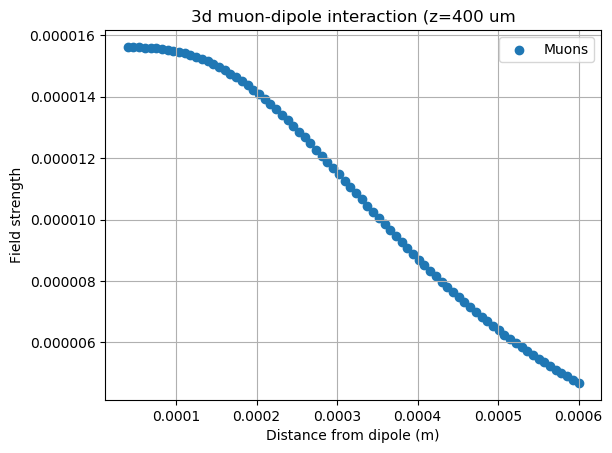
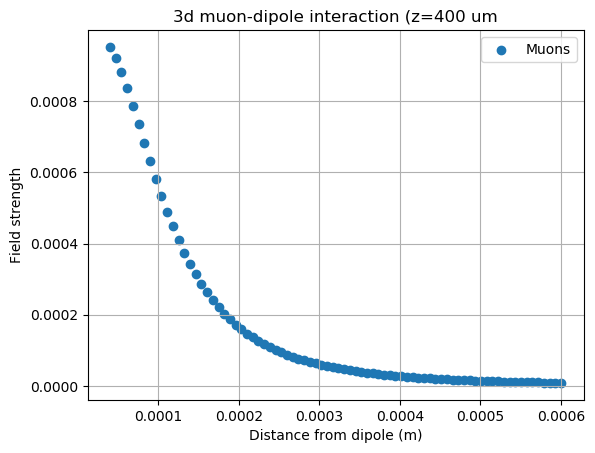
Working graphs for meeting wit Sean

diff --git a/scripts/check_model.py b/scripts/check_model.py
@@ -12,23 +12,24 @@ import modules.functions as func
 def check_calculations():
     island = Island(orientation=0,
                     coord=[0, 0],
-                    strength=1e-8,
+                    strength=8e-8,
                     size=(0.00002, 0.00002),
                     location=[0, 0])
 
-    muon = Muon(location=[5, 0],
+    muon = Muon(location=[100e-6, 0],
                 spin_dir=[-1, 0],
                 lifetime=1)
 
     field_calc = island.get_mag_field(muon.location)
-    print("""By hand calculation for field at (5, 0)m from point dipole at (0, 0)m with\n
-          strength = 1 T\n
+    hand_calc = 800e3
+    print(f"""By hand calculation for field at (100e-6, 0)m from point dipole at (0, 0)m with\n
+          strength = 1e-8 T\n
           orientation = 0 deg\n
-          B field = 1.6e-9 T""")
+          B field = {hand_calc} T (NEEDS RECALCULATING)""")
     print(f"Island has magnetic moment {island.moment}")
     print("Field experienced by muon is:")
-    print("Hand calculation: [1.6e-9, 0] T")
-    print(f"Model calculation: {field_calc} T")
+    print(f"    Hand calculation: {hand_calc} T")
+    print(f"    Model calculation: {field_calc} T")
 
     ########################################################
     print("""\n
@@ -59,13 +60,11 @@ def check_muon_dipoles():
     locations = np.linspace(40e-6, 600e-6, 80)
     muons, fields = [], []
     for loc in locations:
-        temp_muon = Muon(location=[loc, 0, 400e-6])
+        temp_muon = Muon(location=[loc, 0, 100e-6])
         temp_muon.feel_dipole(island)
         muons.append(temp_muon)
         fields.append(func.get_mag(temp_muon.field))
-    fields_normed = [float(i) / max(fields) for i in fields]
     fields = np.array(fields)
-
     plt.figure()
     plt.scatter(locations, fields, label="Muons")
     plt.legend(loc="best")
@@ -161,6 +160,7 @@ def mag_field_1d(source, target):
              / (magnitude ** 5))
             - (moment / (magnitude ** 3))
     ))
+    # Simplified field calculation for debugging in 1d
     # fields = np.array(mag_perm * (
     #     2*moment / (relative_loc**3)
     # ))
@@ -172,11 +172,22 @@ def cubic(x, m):
     return 2 * m / (x ** 3)
 
 
+def check_relaxation():
+
+    island = Island(orientation=0,
+                    coord=[0, 0],
+                    strength=1e-8,
+                    size=(0.00002, 0.00002),
+                    location=[0, 0])
+
+    muon = Muon(location=[100e-6, 0],
+                spin_dir=[-1, 0],
+                lifetime=1)
 angles = np.random.uniform(0, 6.28, 10)
 ensemble = [Dipole(angle, [0, 0, 0], 3) for i, angle in enumerate(angles)]
 
 if __name__ == "__main__":
     check_calculations()
-    check_muon_dipoles()
-    check_precession()
-    check_1d_dipole(norm=False)
+    #check_muon_dipoles()
+    #check_precession()
+    #check_1d_dipole(norm=False)

diff --git a/modules/dipole.py b/modules/dipole.py
@@ -43,7 +43,7 @@ class Dipole():
                 Moment: {}".format(self.coord, self.orientation_d,
                                    self.strength, self.moment))
 
-    def get_mag_field(self, target):
+    def get_mag_field(self,  target):
         """
         :param array target: Target location [x, y, z]
         :return: array of field values at target location
@@ -52,7 +52,7 @@ class Dipole():
         if not len(target) == len(self.location):
             raise ValueError("Dimensions of target and self.location to not match")
         temp_moment = self.moment[:len(target)]  # Ensure moment is correct dimension
-        mag_perm = 1e-7  # Cancel constant terms to get mag_perm as only constant
+        mag_perm = 1.257e-612  # Cancel constant terms to get mag_perm as only constant
         relative_loc = np.subtract(np.array(target), self.location)
         magnitude = func.get_mag(relative_loc)
 

diff --git a/modules/functions.py b/modules/functions.py
@@ -153,8 +153,8 @@ def save_array(run_name, file_name, **kwargs):
 
 def save_object(filename, obj):
     """
-    :param filename: Will save to "Muon_magnets/data/{filename}.txt"
-    :param obj: Object to save
+    :param str filename: Will save to "Muon_magnets/data/{filename}.txt"
+    :param object obj: Object to save
     """
     import pickle
     file_path = f"../data/{filename}.pickle"
@@ -167,7 +167,7 @@ def save_object(filename, obj):
 # =============================================================================
 def load_object(file_name):
     """
-    :param filename: Will load from "Muon_magnets/data/{filename}.pickle"
+    :param str filename: Will load from "Muon_magnets/data/{filename}.pickle"
     :rtype: object
     :return: Object stored in file
     """

diff --git a/modules/island.py b/modules/island.py
@@ -9,7 +9,7 @@ class Island(Dipole):
     def __init__(self,
                  orientation=0,
                  coord=[0, 0, 0],
-                 strength=1e-3,
+                 strength=1e-8,
                  size=(1e-8, 2e-8),
                  location=[0, 0, 0]):
         """
